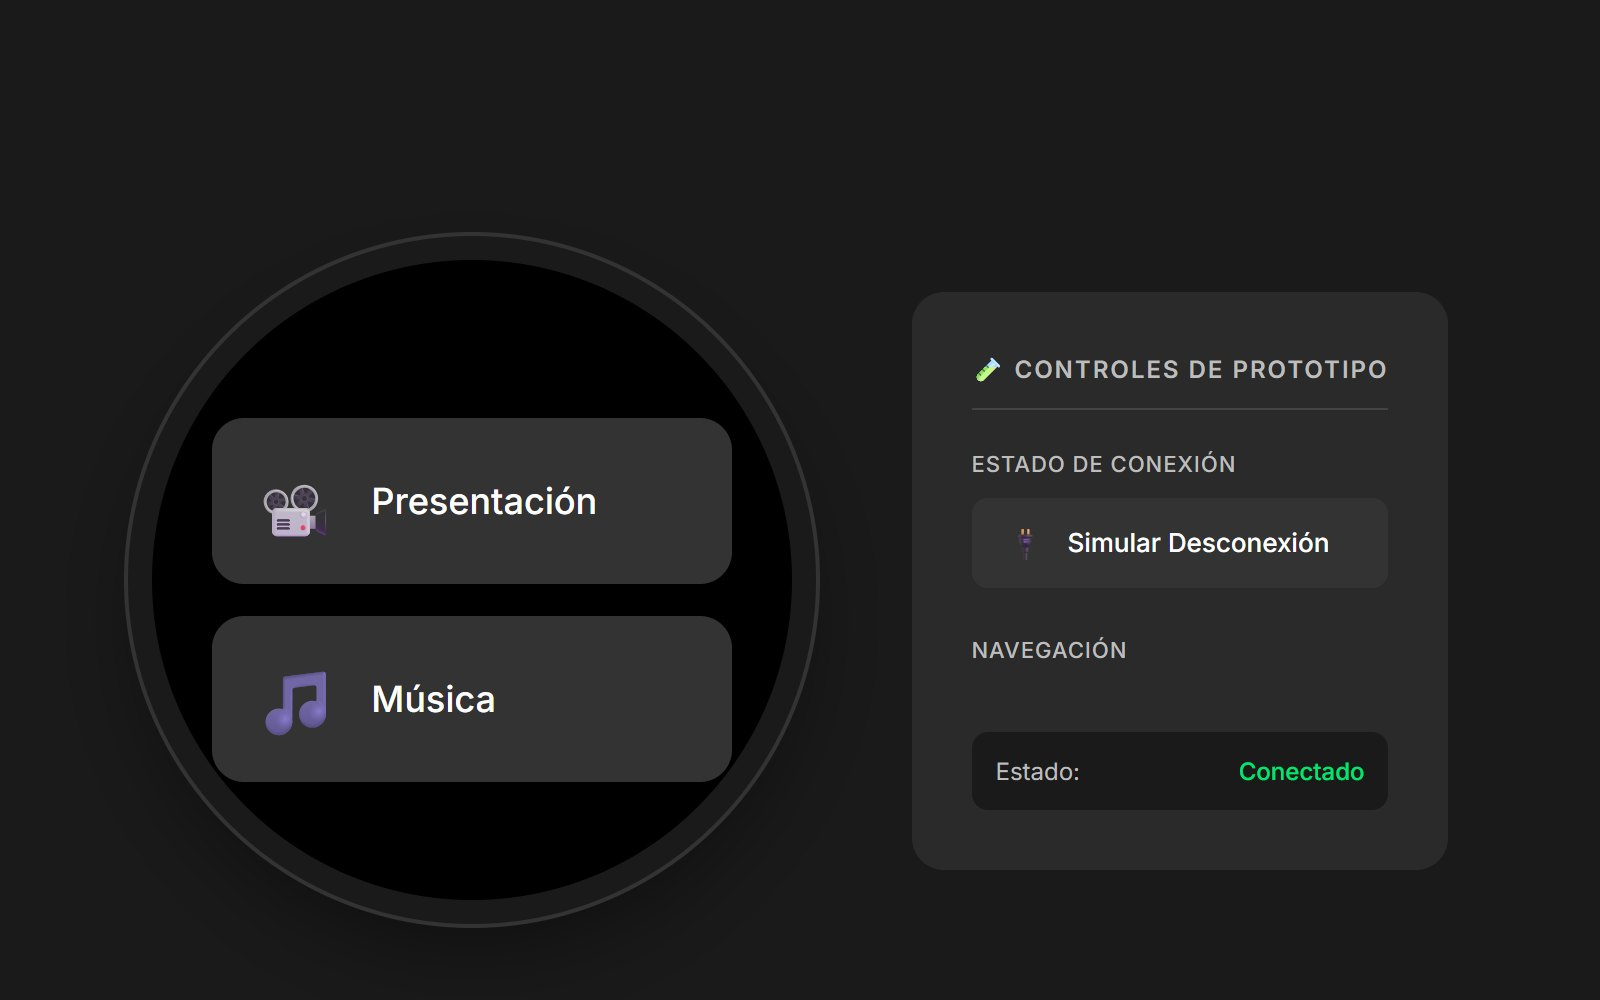
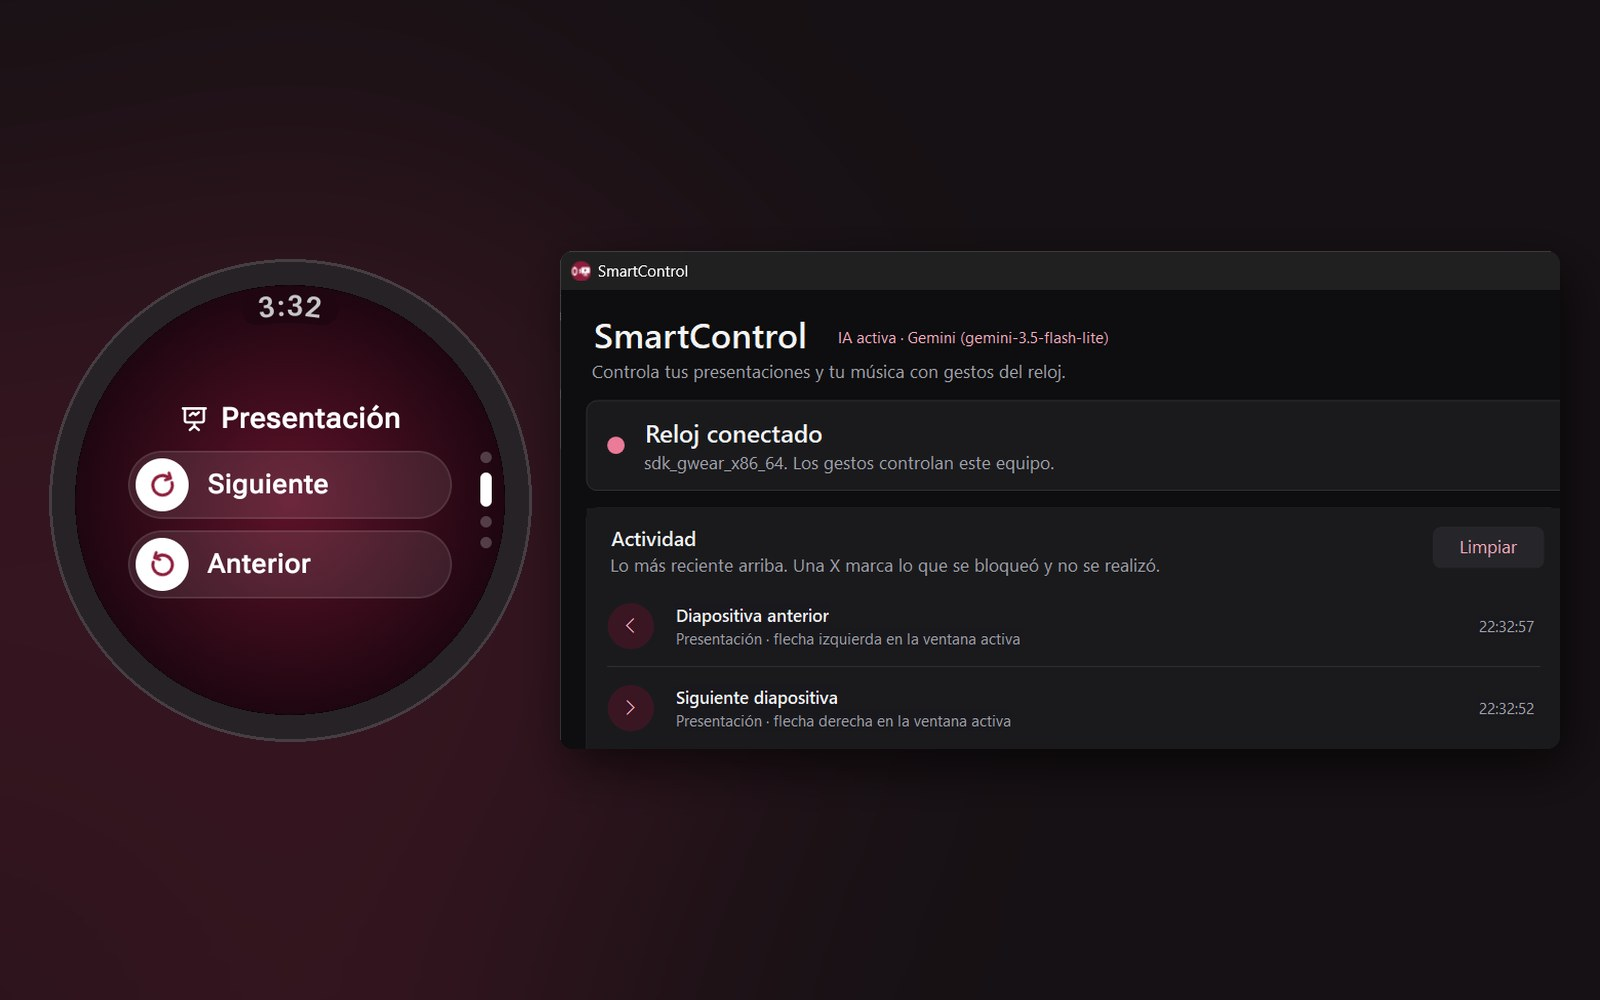
captura nueva de smartcontrol: reloj y app de windows conectados

diff --git a/data/projects.ts b/data/projects.ts
@@ -109,7 +109,7 @@ export const projects: Project[] = [
     },
     image: {
       src: "/images/projects/smartcontrol.jpg",
-      alt: "Captura del prototipo de SmartControl: la pantalla redonda del reloj con los modos Presentación y Música, junto a los controles del prototipo.",
+      alt: "Captura de SmartControl: el reloj en modo Presentación con los botones Siguiente y Anterior, junto a la aplicación de Windows con el reloj conectado y la actividad de las diapositivas.",
     },
     motif: "watch",
     featured: true,
